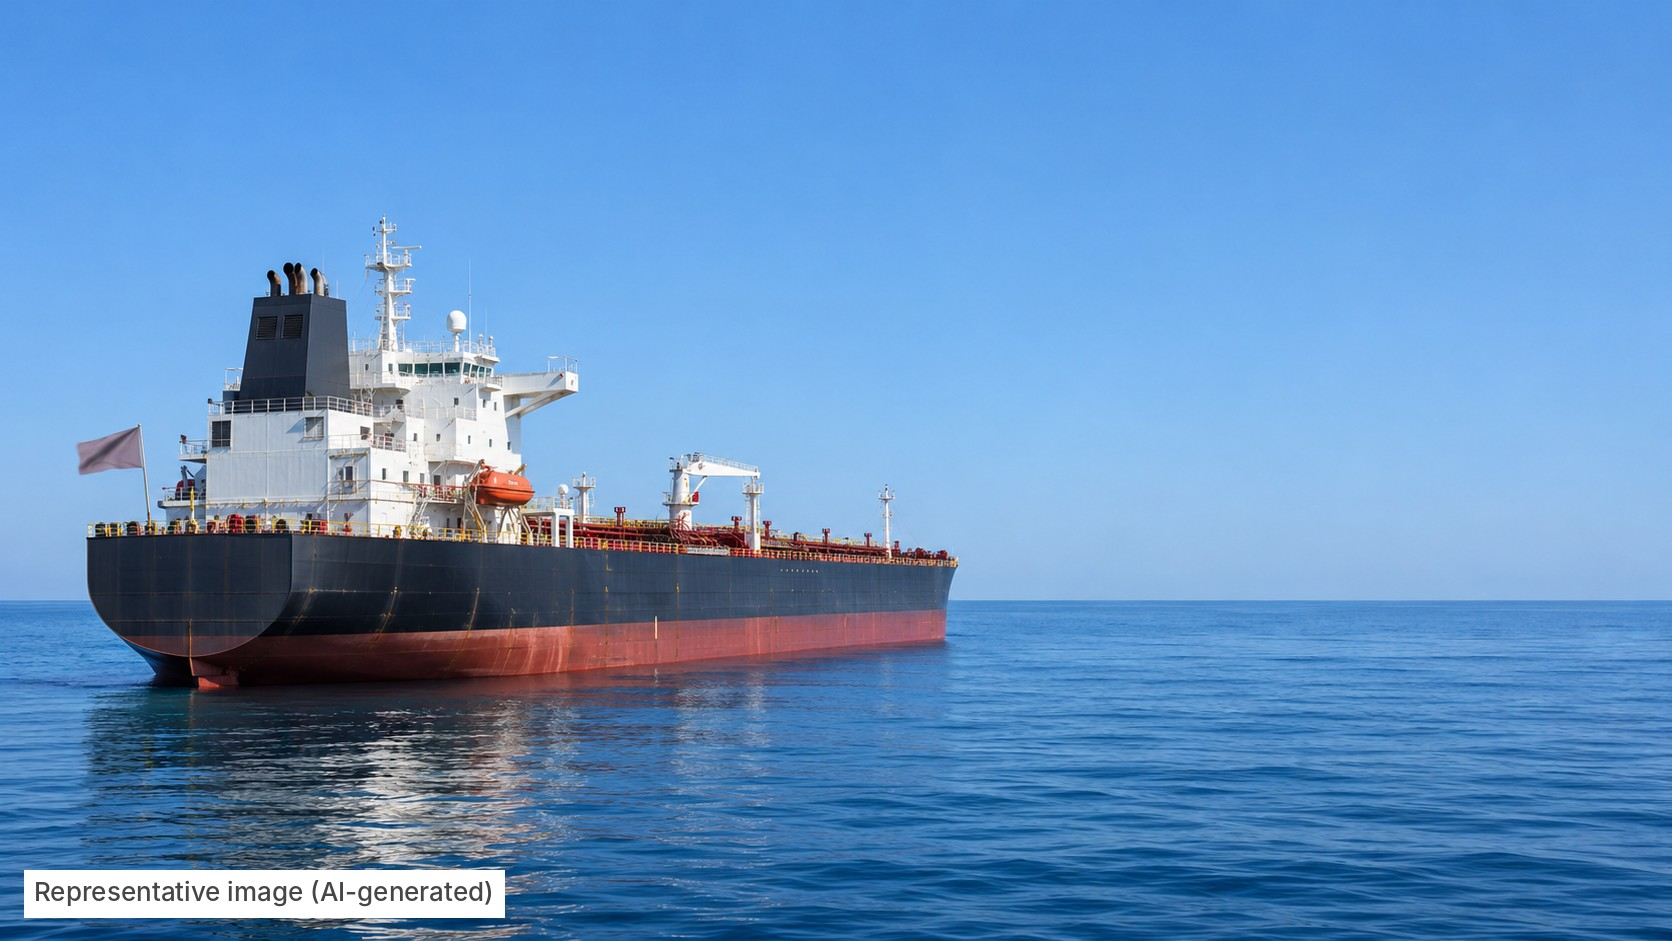
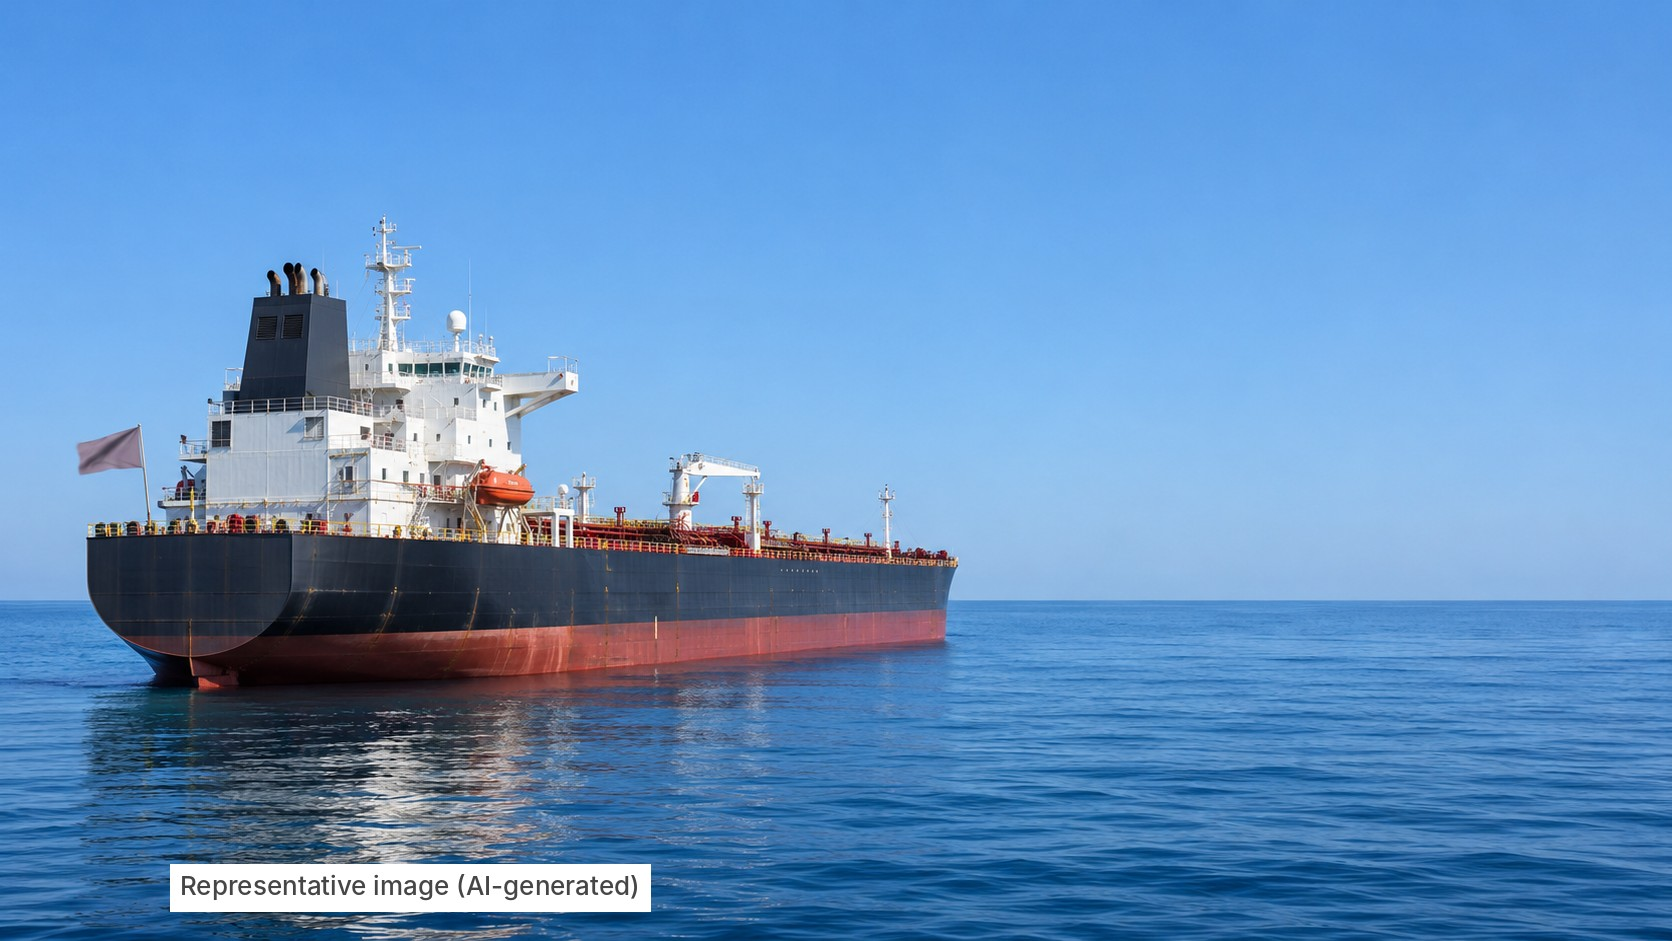
Publish: US puts a Kerala company set up in February on its Iran sanctions list; Long Read lead now picks long-form pieces
Claude-Session: https://claude.ai/code/session_01YJSrFxAih1XvDkkjy8dWZU

Changed region(s): [[0.0, 0.8937, 0.4043, 0.9862]]

diff --git a/src/content/config.ts b/src/content/config.ts
@@ -12,6 +12,7 @@ const blog = defineCollection({
     ogImage: z.string().optional(),
     draft: z.boolean().default(false),
     section: z.enum(['investigations', 'news', 'history', 'essays']).default('investigations'),
+    longread: z.boolean().default(false),
     channel: z.string().optional(),
     canonical: z.string().optional(),
     coverAlt: z.string().optional(),

diff --git a/src/content/blog/us-sanctions-kerala-company-iran-ship-flags.md b/src/content/blog/us-sanctions-kerala-company-iran-ship-flags.md
@@ -8,7 +8,7 @@ section: "investigations"
 cover: kerala-sanctions-cover.jpg
 coverAlt: "Oil tanker at anchor on calm open sea under a clear sky, flying a plain, unidentifiable flag (representative AI-generated image)"
 ogImage: og/kerala-sanctions-og.jpg
-draft: true
+draft: false
 ---
 
 A private company registered in Kerala’s Alappuzha district in **February this year** has been put on the **United States’ Iran sanctions list**.

diff --git a/src/content/blog/stalins-bengal-prophecy.md b/src/content/blog/stalins-bengal-prophecy.md
@@ -6,6 +6,7 @@ seoTitle: "Stalin Predicted Bangladesh in 1951: What the Russian Archive Shows"
 date: "2026-11-05"
 ogImage: "og/stalin-bengal-og.jpg"
 cover: "stalin-bengal-cover.jpg"
+longread: true
 section: "investigations"
 draft: false
 ---

diff --git a/src/content/blog/mrs-mukherji-of-calcutta.md b/src/content/blog/mrs-mukherji-of-calcutta.md
@@ -6,6 +6,7 @@ seoTitle: "Savitri Devi, Hitler’s Devotee: What India’s Secret File Shows"
 date: "2026-09-28"
 ogImage: og/mrs-mukherji-og-2.jpg
 cover: savitri-devi-cover.jpg
+longread: true
 section: "investigations"
 draft: false
 ---
